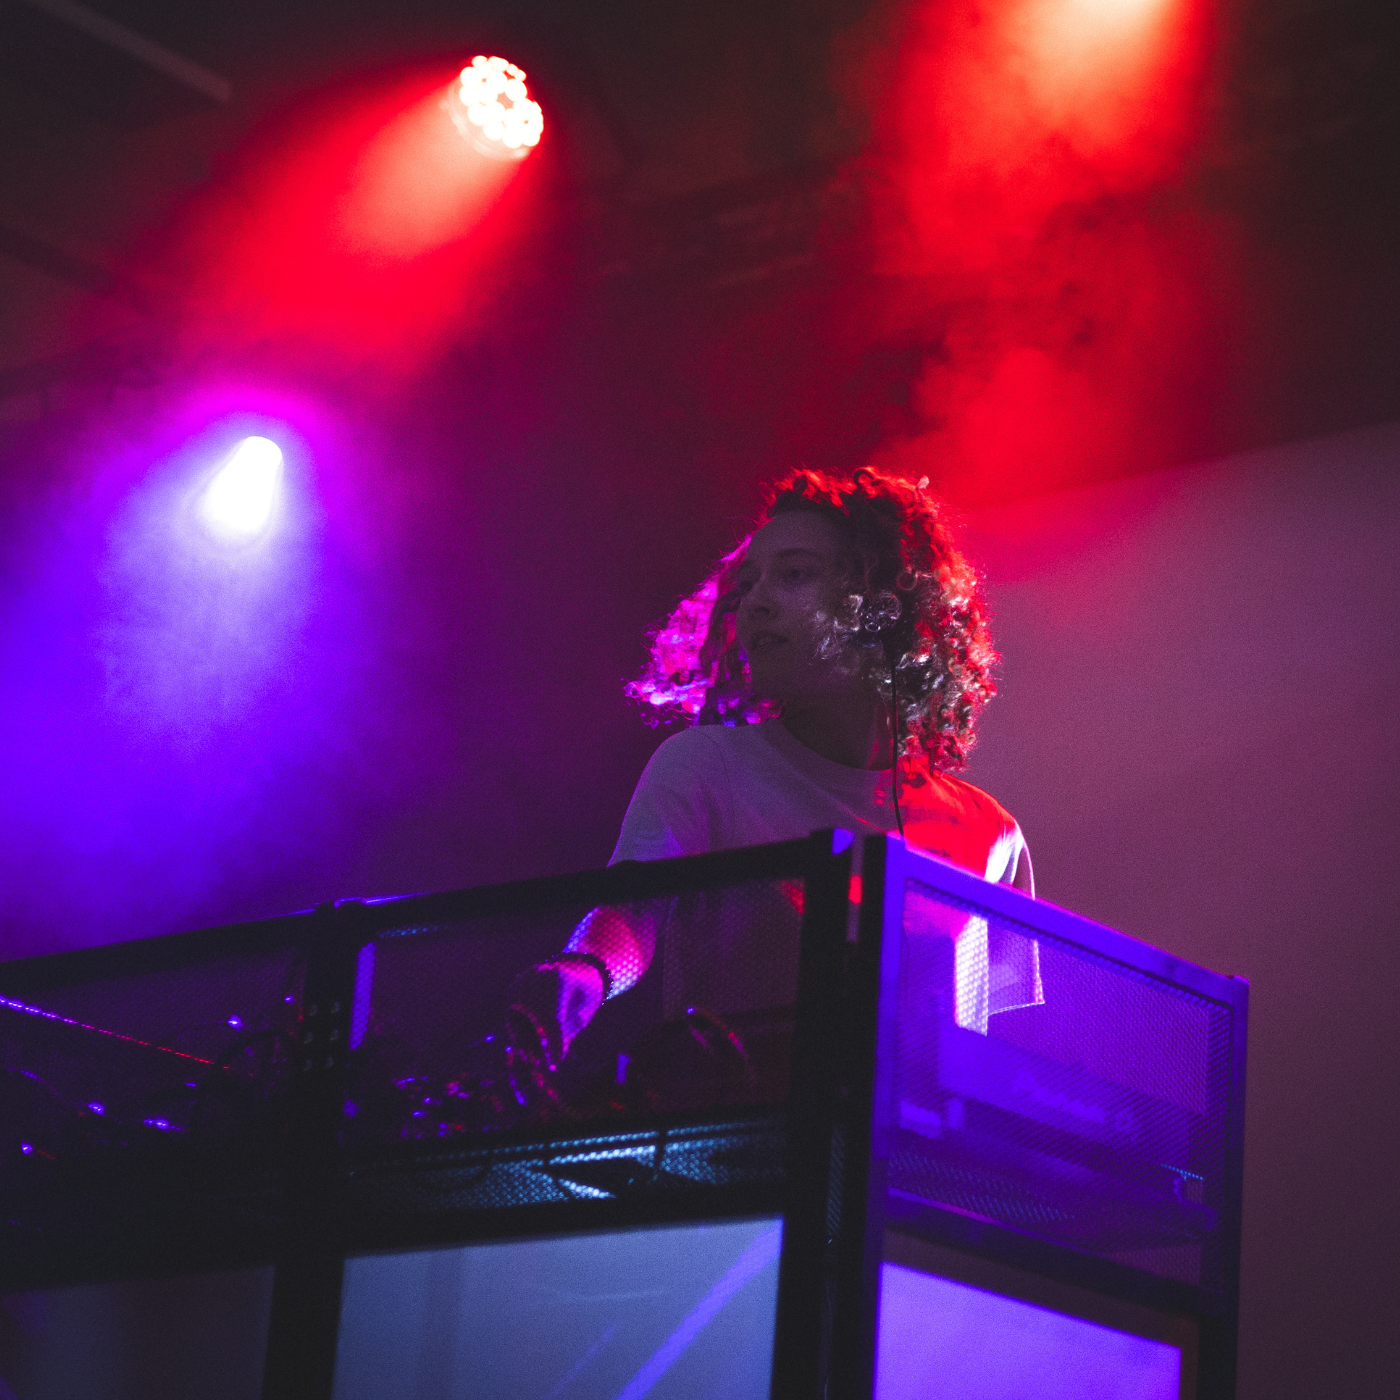
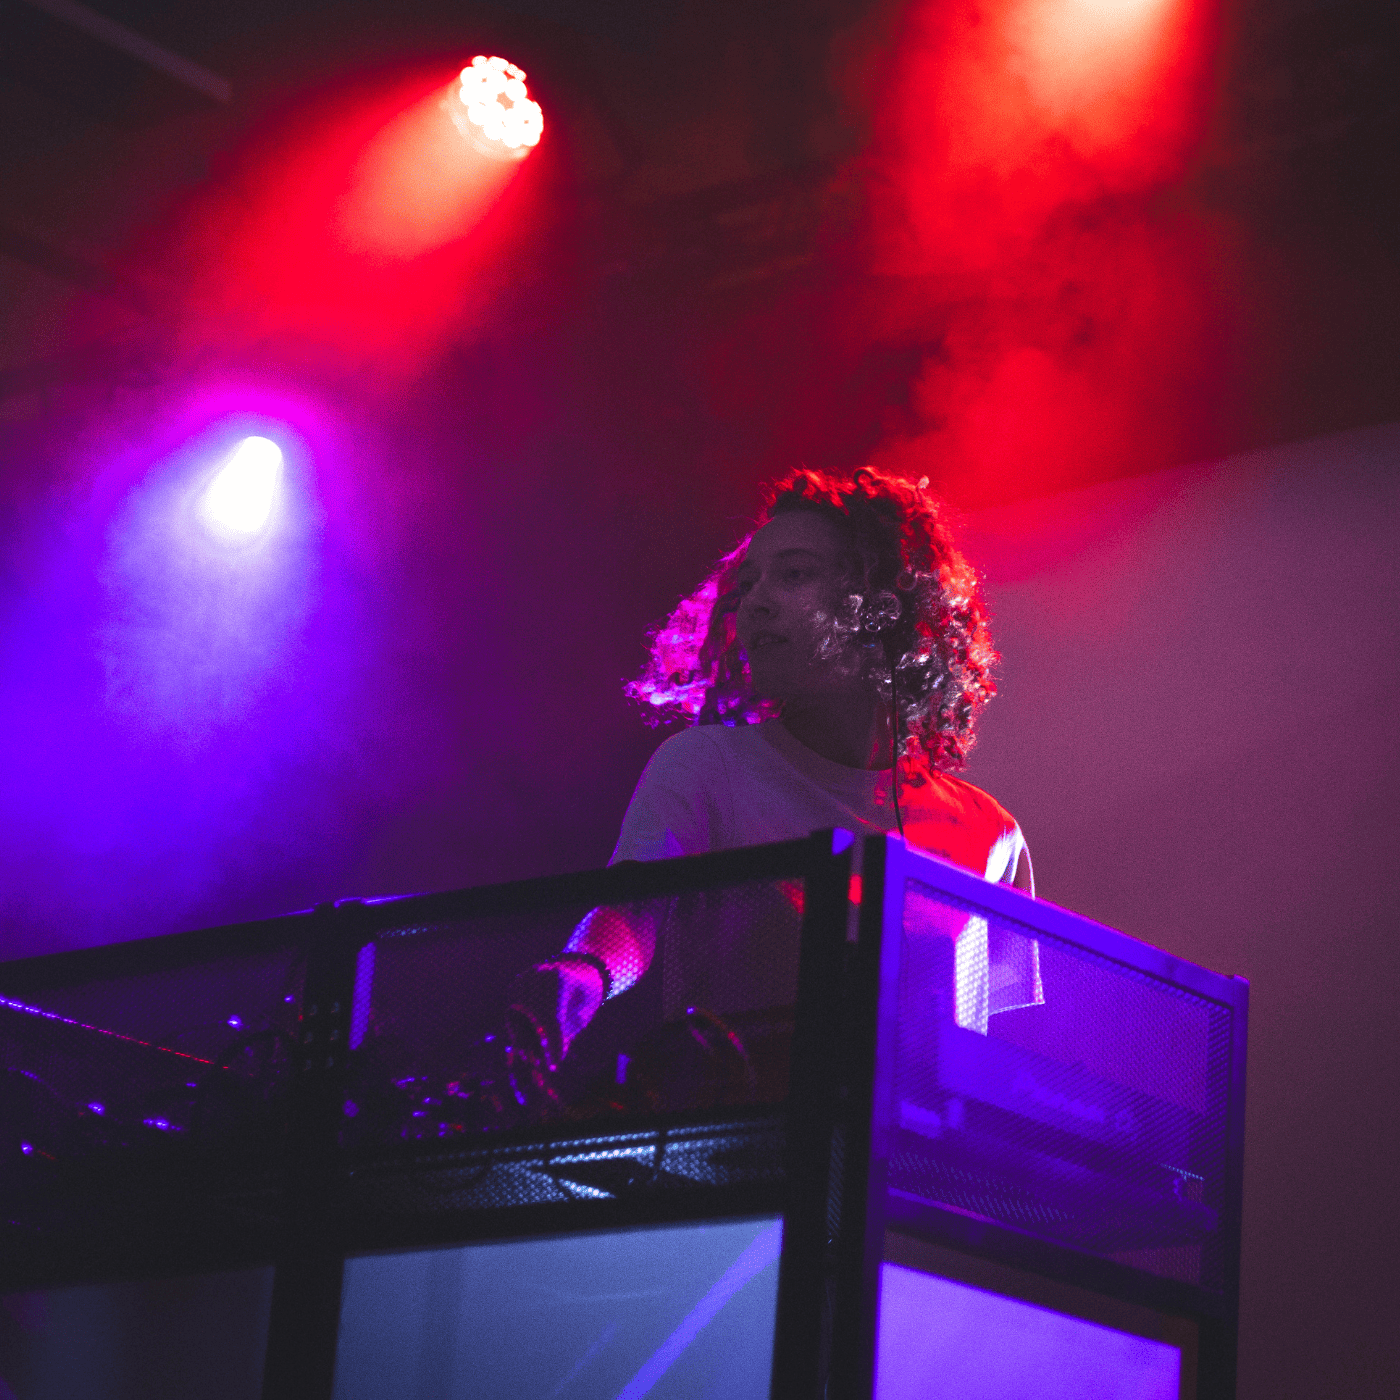
oui

diff --git a/src/data/artists.ts b/src/data/artists.ts
@@ -163,7 +163,7 @@ export const dj: Artist[] = [
   {
     id: "bonnie-spacey",
     name: "Bonnie Spacey",
-    image: "/images/artists/bonniespacey.png",
+    image: "/images/artists/bonniespacey.jpg",
     description: "Description de Bonnie Spacey.",
     socialLinks: {
       instagram: "https://instagram.com/bonnie_spacey",
@@ -173,7 +173,7 @@ export const dj: Artist[] = [
   {
     id: "dame-fleuraux",
     name: "Dame Fleuraux",
-    image: "/images/artists/damefleuraux.png",
+    image: "/images/artists/damefleuraux.jpg",
     description: "Description de Dame Fleuraux.",
     socialLinks: {
       instagram: "https://instagram.com/dame_fleuraux",
@@ -184,7 +184,8 @@ export const dj: Artist[] = [
     id: "elona",
     name: "Elona",
     image: "/images/artists/elona.png",
-    description: "Curatrice, bassiste et productrice, sillonnent entre la house, break et electronica. Elle a notamment eu l’opportunité de mixer auprès de DJ reconnu·es tels que Dee Nasty, pionnier du hip-hop en France, Ian Pooley, figure emblématique de la house allemande, et Alpha Tracks, producteur influent de la scène techno contemporaine. Souhaitant avant tout offrir une expérience mouvementée et transcendante aux percussions entêtantes et frissonnantes, poussant les basses et jouant sur les contre-temps.",
+    description:
+      "Curatrice, bassiste et productrice, sillonnent entre la house, break et electronica. Elle a notamment eu l’opportunité de mixer auprès de DJ reconnu·es tels que Dee Nasty, pionnier du hip-hop en France, Ian Pooley, figure emblématique de la house allemande, et Alpha Tracks, producteur influent de la scène techno contemporaine. Souhaitant avant tout offrir une expérience mouvementée et transcendante aux percussions entêtantes et frissonnantes, poussant les basses et jouant sur les contre-temps.",
     socialLinks: {
       instagram: "https://instagram.com/elona_dj",
       spotify: "https://open.spotify.com/artist",
